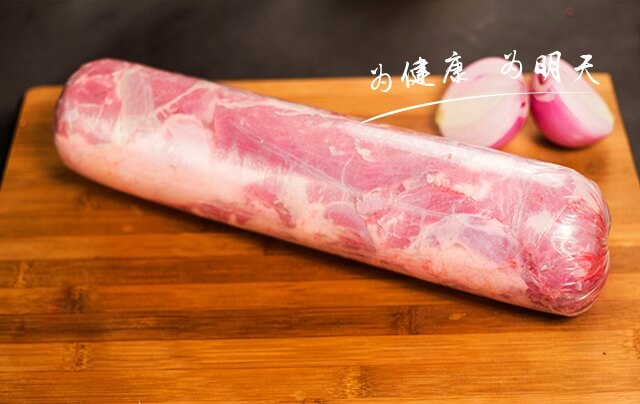
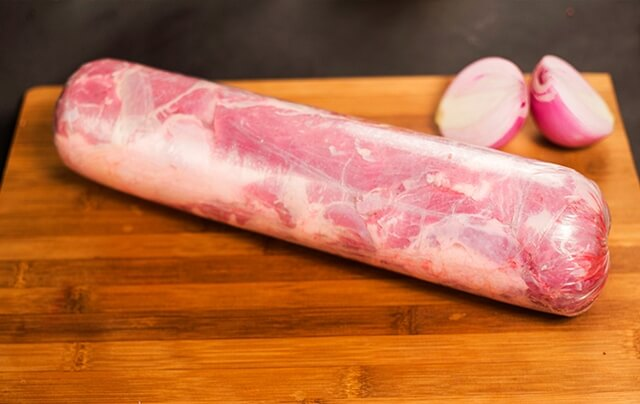
唯简-涝河桥
1、后两个banner图修改
2、启动页时间删除

Changed region(s): [[0.5625, 0.1188, 0.75, 0.3267], [0.7812, 0.1188, 0.9375, 0.2079], [0.8125, 0.2079, 0.8438, 0.2376]]

diff --git a/weijian/mutton_laoheqiao/index.html b/weijian/mutton_laoheqiao/index.html
@@ -13,9 +13,6 @@
 				overflow: hidden;
 			}
 		</style>
-		<script language="javascript">
-   			setTimeout("location.href='main.html';", 8000);
-		</script>
 	</head>
 	<body>
 		<!-- 预加载 begin -->
